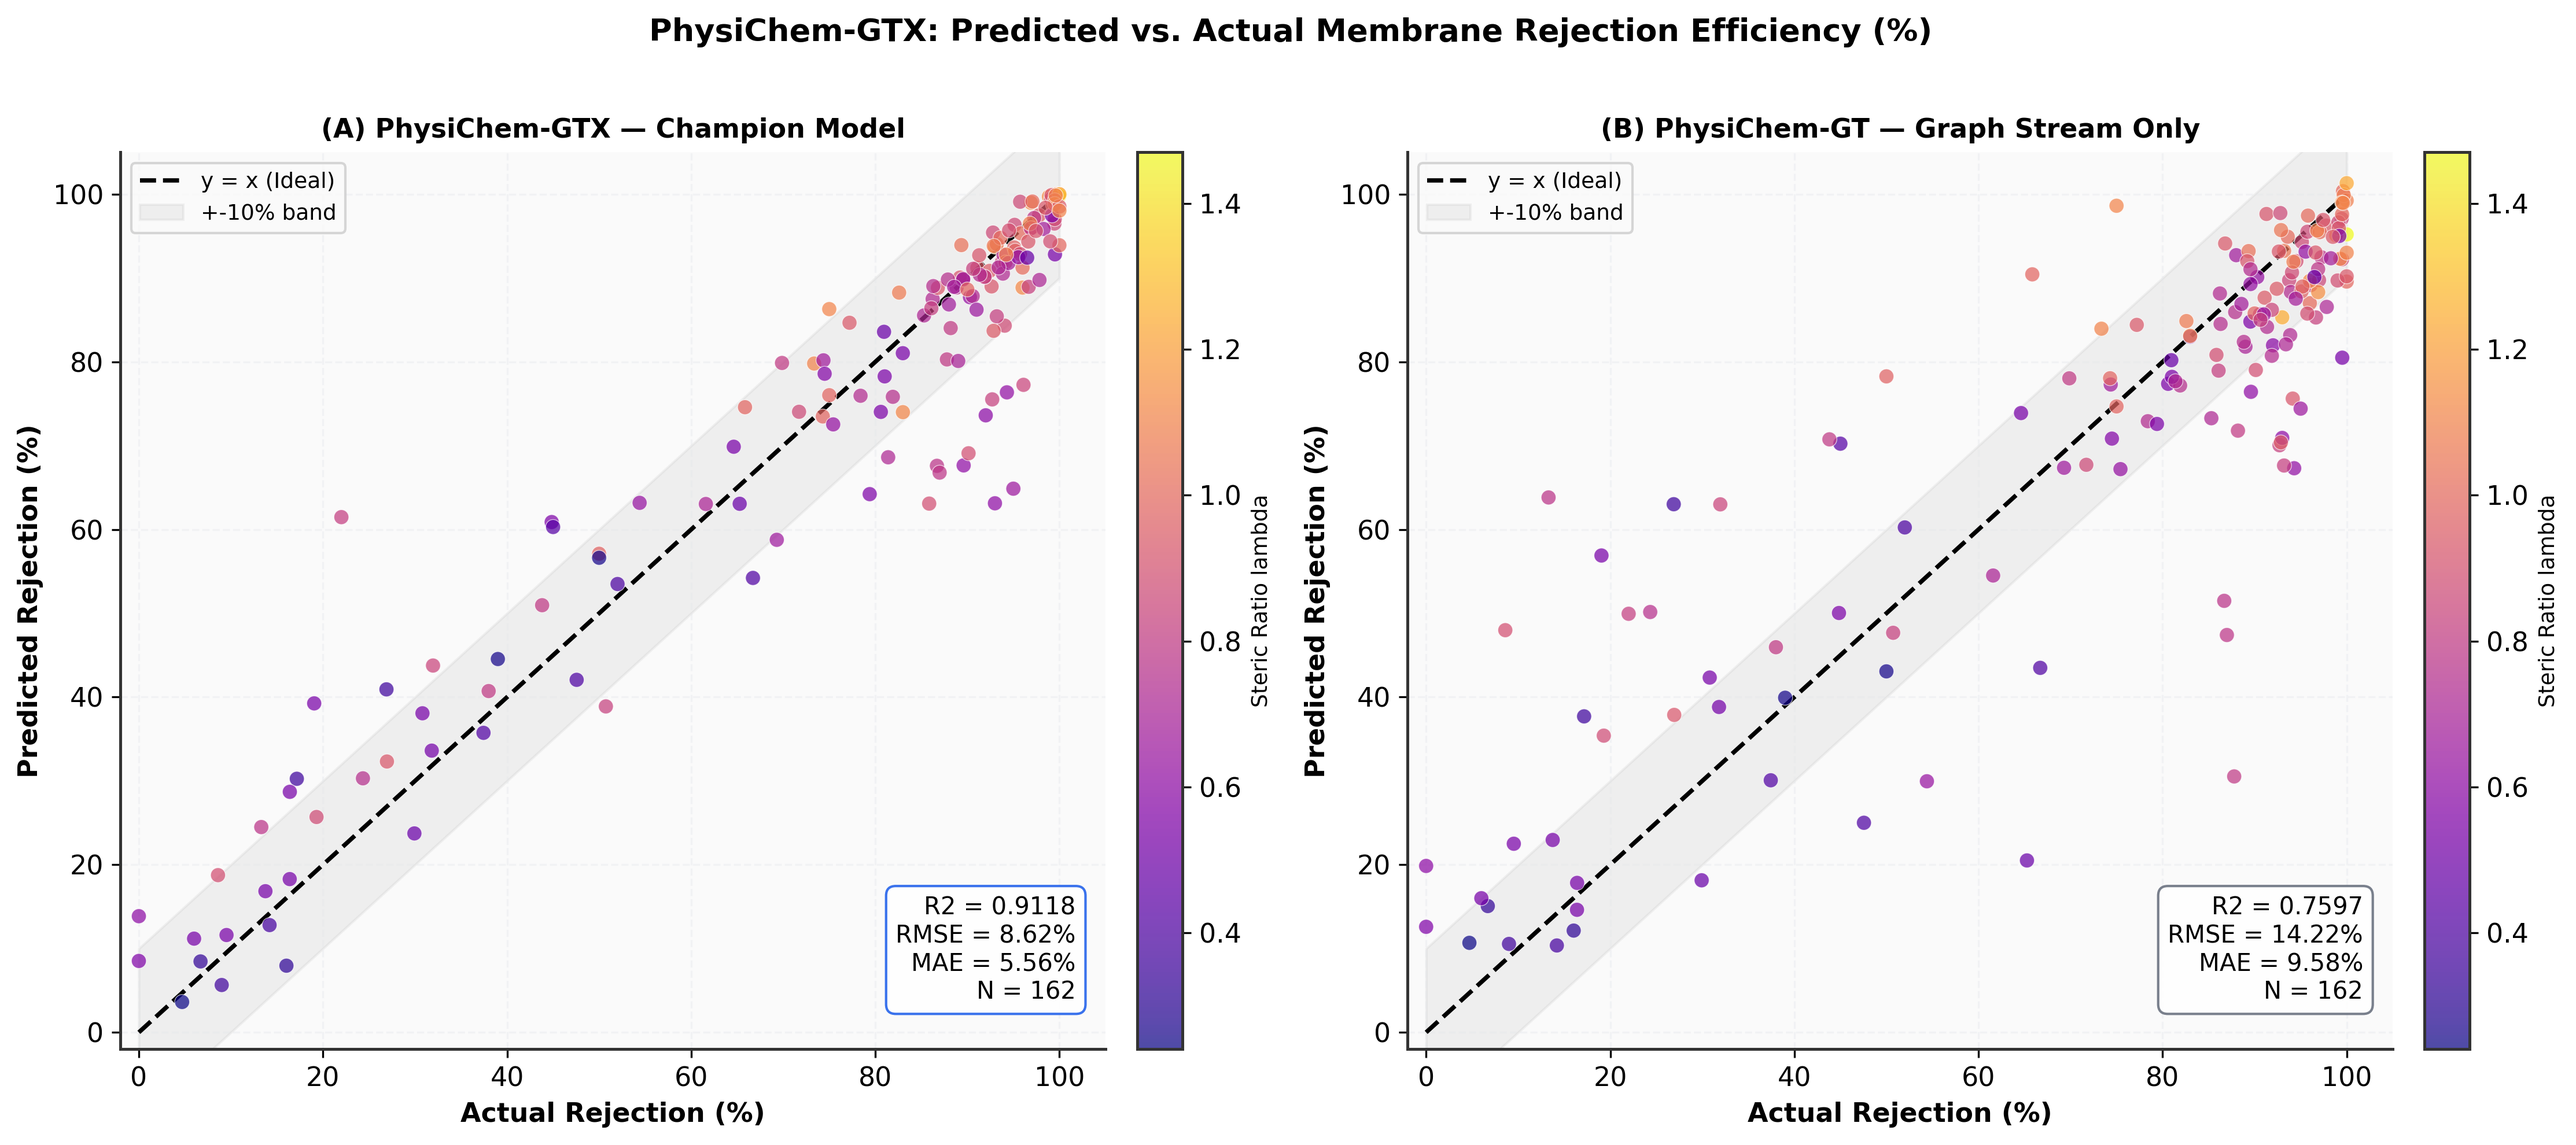
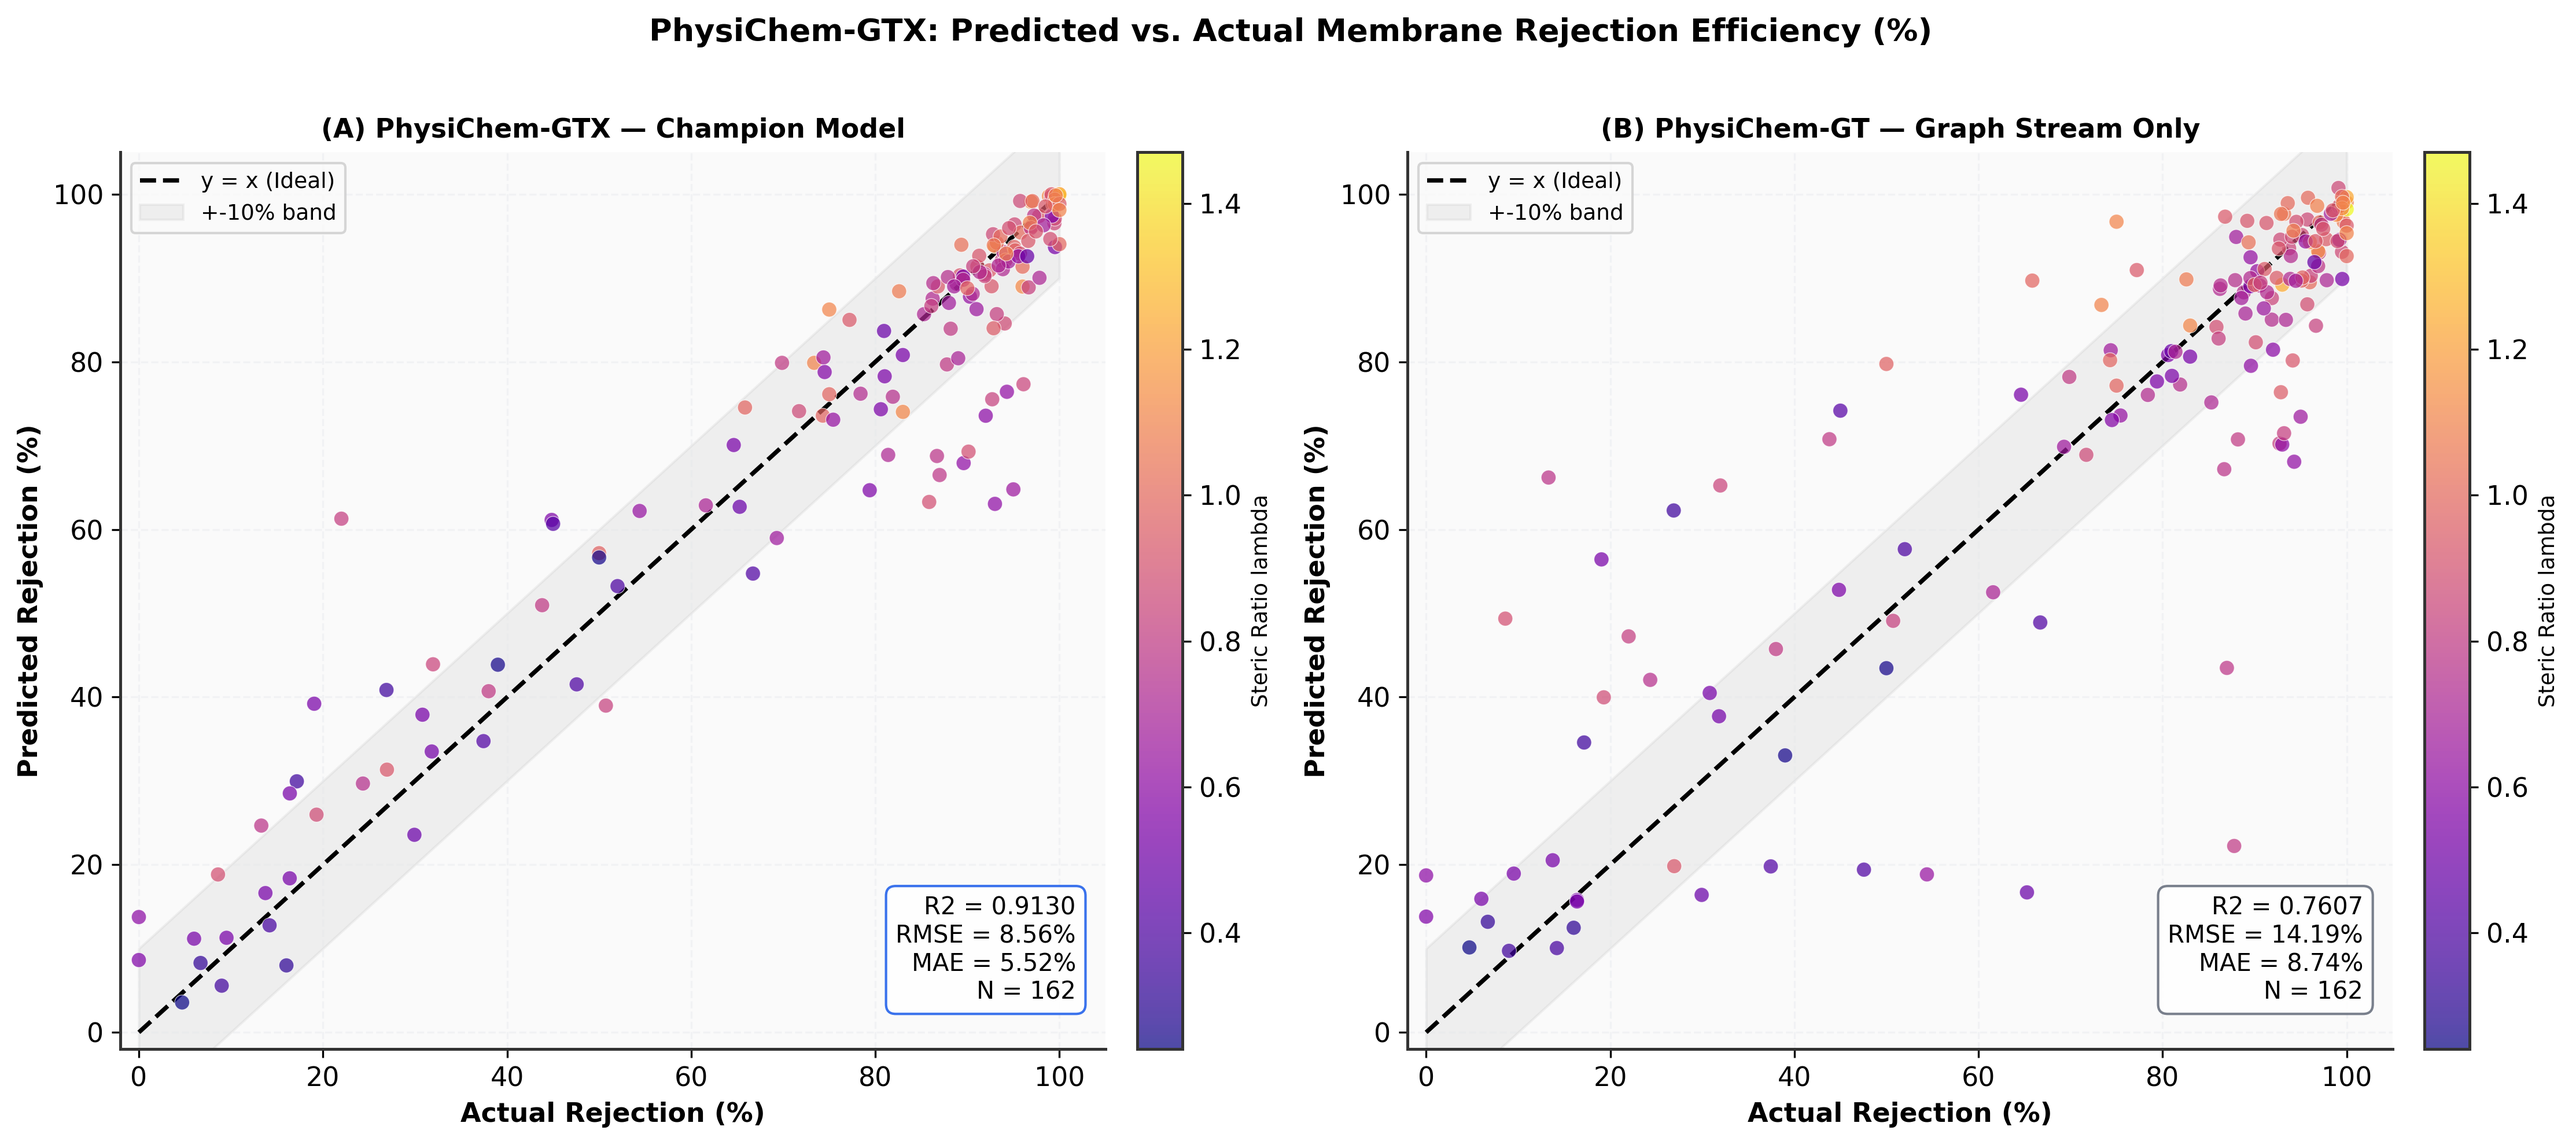
fix(fig2): Use deterministic forward pass for GTX parity plot (R2=0.9130, RMSE=8.56%)

diff --git a/src/generate_paper_figures.py b/src/generate_paper_figures.py
@@ -215,26 +215,33 @@ def run_gtx_inference(data, models):
     )
     test_loader = DataLoader(test_ds, batch_size=64, shuffle=False, collate_fn=collate_fn)
 
-    gt_preds, gt_stds, y_true_list = [], [], []
+    # 1. Deterministic forward pass for exact benchmark accuracy (Figure 2 & Table 2: R2 = 0.9130)
+    gt_preds_det = []
     with torch.no_grad():
         for b in test_loader:
-            x, graph, y = b[0], b[1], b[2]
-            mean, std = gt_model.predict_with_uncertainty(x, graph, n_samples=50)
-            gt_preds.extend(mean.numpy().flatten())
+            x, graph = b[0], b[1]
+            gt_preds_det.extend(gt_model(x, graph).numpy().flatten())
+    gt_preds_det = np.array(gt_preds_det)
+    y_true = np.array(data['y_test'])
+
+    # 2. MC Dropout passes specifically for epistemic uncertainty quantification (Figure 7)
+    gt_stds = []
+    with torch.no_grad():
+        for b in test_loader:
+            x, graph = b[0], b[1]
+            _, std = gt_model.predict_with_uncertainty(x, graph, n_samples=50)
             gt_stds.extend(std.numpy().flatten())
-            y_true_list.extend(y.numpy().flatten())
+    gt_stds = np.array(gt_stds)
 
-    gt_preds = np.array(gt_preds)
-    gt_stds  = np.array(gt_stds)
-    y_true   = np.array(y_true_list)
-
+    # XGB stream
     fps_test   = np.array([get_fp(s) for s in data['sm_test']])
     X_xgb_test = np.hstack([data['X_test'], fps_test])
     xgb_preds  = xgb_model.predict(X_xgb_test)
 
+    # GTX MoE gate
     lam       = data['st_test']
     g_moe     = 0.10 / (1.0 + np.exp(6.0 * (lam - 0.95)))
-    gtx_preds = np.clip(g_moe * gt_preds + (1.0 - g_moe) * xgb_preds, 0.0, 100.0)
+    gtx_preds = np.clip(g_moe * gt_preds_det + (1.0 - g_moe) * xgb_preds, 0.0, 100.0)
 
     r2   = r2_score(y_true, gtx_preds)
     rmse = np.sqrt(mean_squared_error(y_true, gtx_preds))
@@ -243,7 +250,7 @@ def run_gtx_inference(data, models):
 
     return dict(
         y_true=y_true, gtx_preds=gtx_preds,
-        gt_preds=gt_preds, gt_stds=gt_stds,
+        gt_preds=gt_preds_det, gt_stds=gt_stds,
         xgb_preds=xgb_preds, g_moe=g_moe,
         r2=r2, rmse=rmse, mae=mae,
         steric=lam, charge=data['ch_test'],
